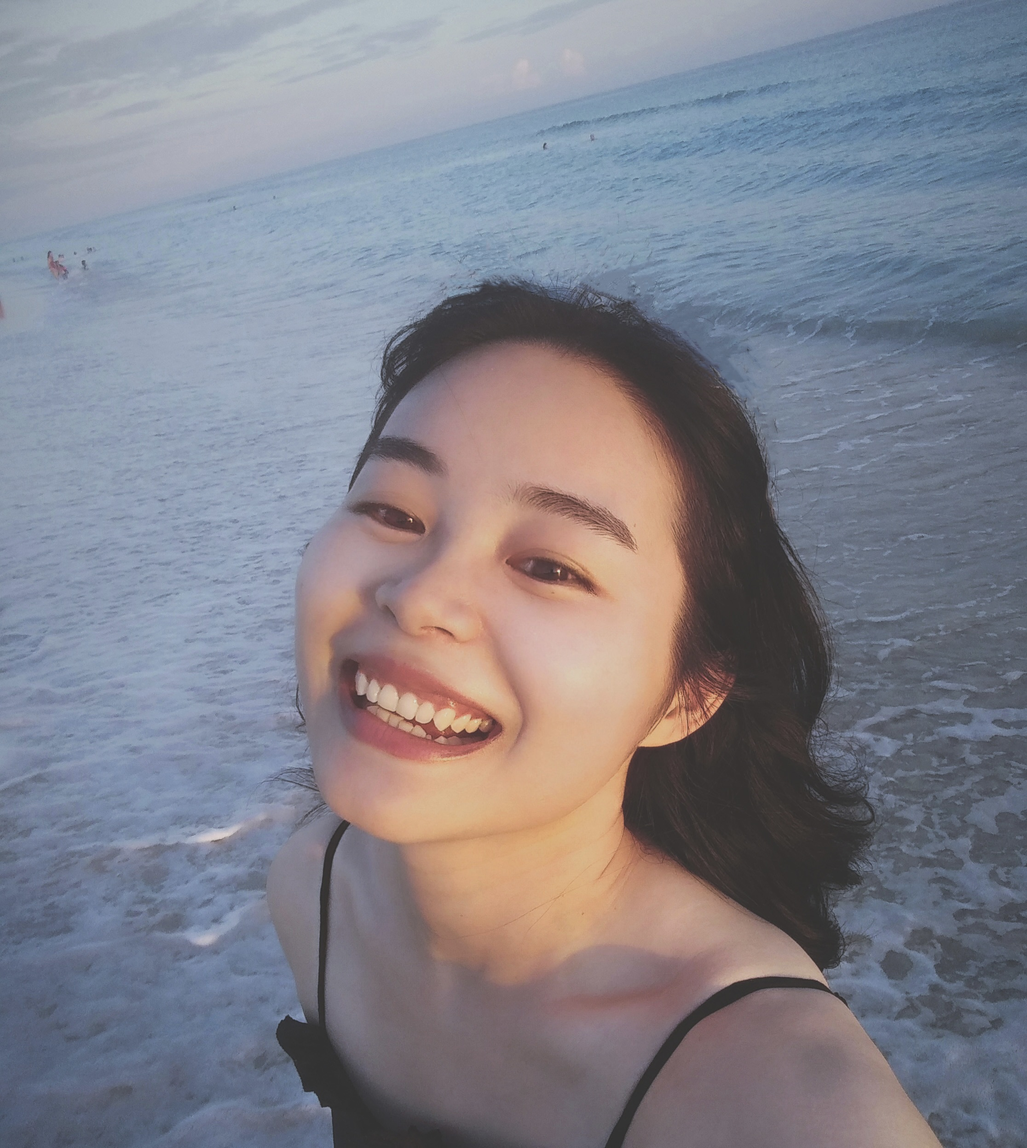
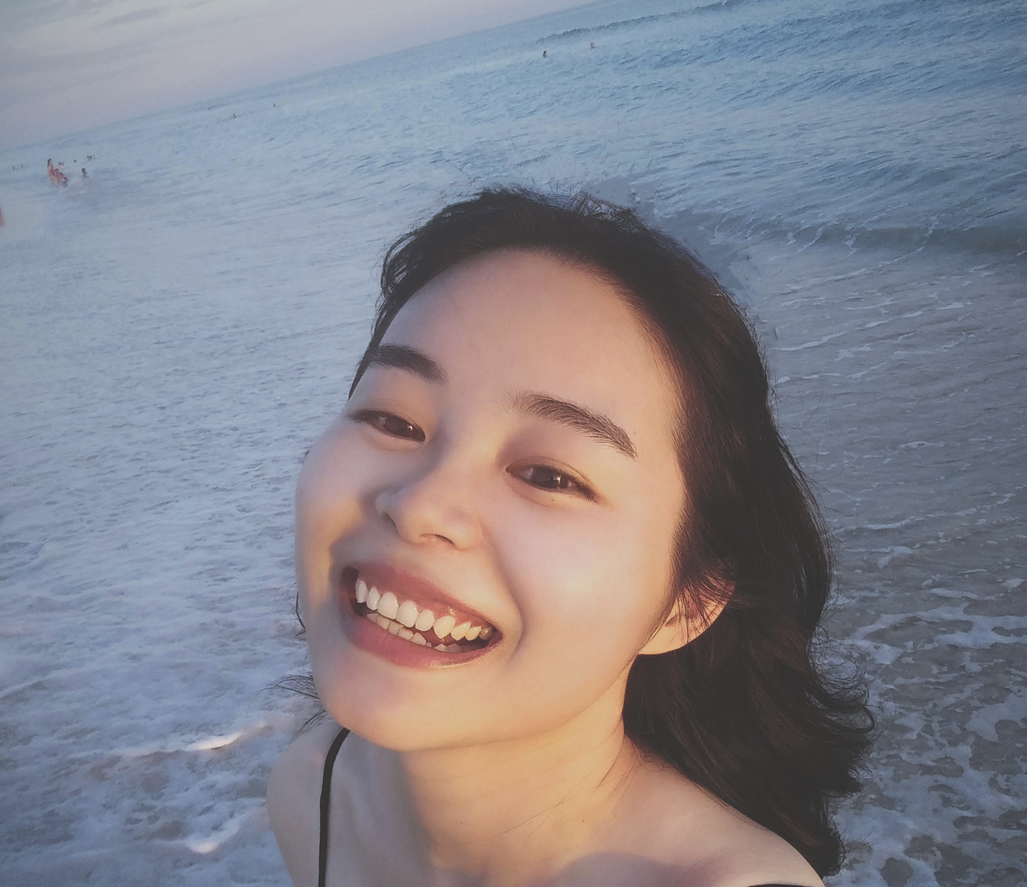
updated skills

diff --git a/src/Home/home.css b/src/Home/home.css
@@ -96,12 +96,12 @@
 .home_right {
   display: flex;
   align-items: center;
-  justify-content: left;
+  justify-content: center;
 }
 
 .home_right img {
   object-fit: cover;
-  width: 70%;
+  width: 80%;
   height: 70%;
   border-radius: 130% 75% 85% 75%;
 }
